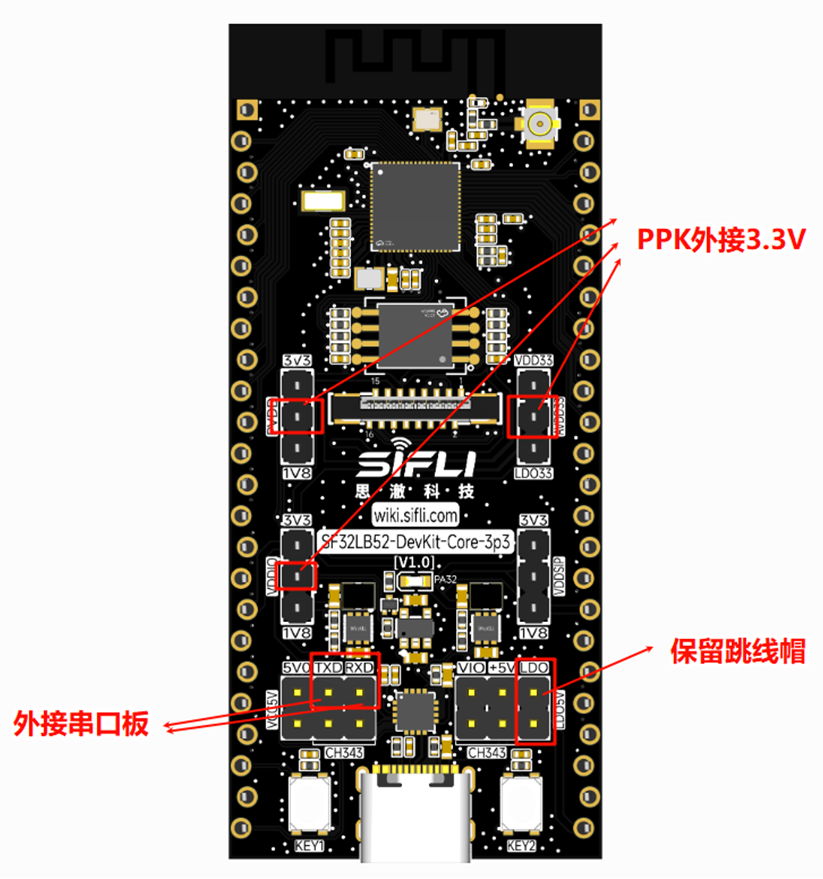
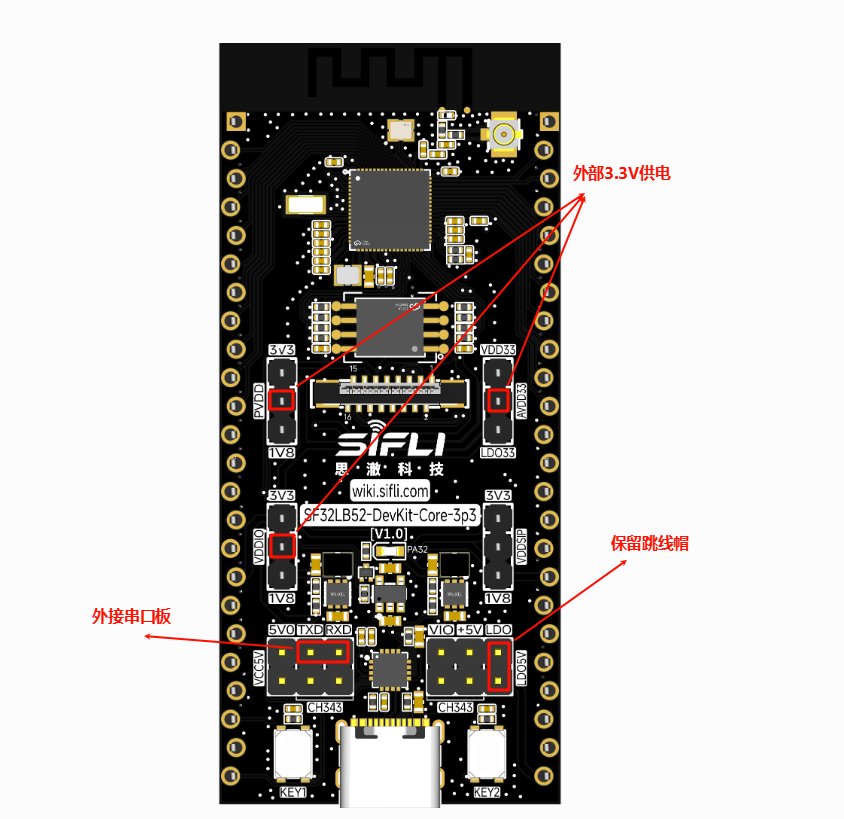
change image and add link

diff --git a/source/en/test_environment/middleware.md b/source/en/test_environment/middleware.md
@@ -1,5 +1,6 @@
 # Related Hardware
-* SF32LB52-DevKit-Core-3p3 (onboard chip model SF32LB52BU56/SF32LB52JUD6), refer to SF32LB52-DevKit-Core-3p3 development board user guide for usage instructions
-* PPK for external power supply
+* SF32LB52-DevKit-Core-3p3 (onboard chip model SF32LB52BU56/SF32LB52JUD6), refer to [SF32LB52-DevKit-Core-3p3 development board user guide](http://10.21.10.172:6600/devkits/sf32lb52x/SF32LB52-DevKit-Core-3p3.html) for usage instructions
+* Agilent 66319D DC Power Supply
+* Keysight 34465A Digital Multimeter
 * Serial port board
 * Android phone with LightBlue App installed (com.punchthrough.lightblueexplorer_LightBlue_1.9.3.apk, available from GooglePlay store)

diff --git a/source/zh_CN/test_environment/middleware.md b/source/zh_CN/test_environment/middleware.md
@@ -1,5 +1,6 @@
 # 相关硬件
-* SF32LB52-DevKit-Core-3p3(板载芯片型号 SF32LB52BU56/SF32LB52JUD6)，使用方法参考SF32LB52-DevKit-Core-3p3开发板使用指南
-* PPK进行外部供电
+* SF32LB52-DevKit-Core-3p3(板载芯片型号 SF32LB52BU56/SF32LB52JUD6)，使用方法参考[SF32LB52-DevKit-Core-3p3开发板使用指南](http://10.21.10.172:6600/devkits/sf32lb52x/SF32LB52-DevKit-Core-3p3.html)
+* Agilent 66319D直流电源
+* Keysight 34465A 数字电流计
 * 串口板
 * 安卓手机，安装 LightBlue App（com.punchthrough.lightblueexplorer_LightBlue_1.9.3.apk，可从 GooglePlay 应用商店下载）
